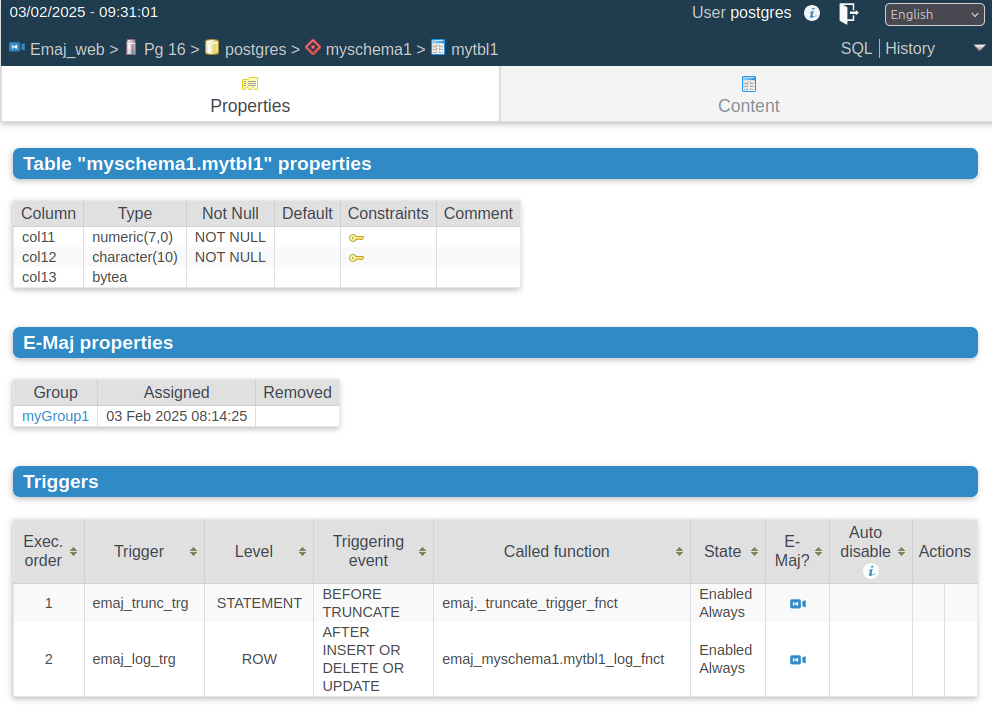
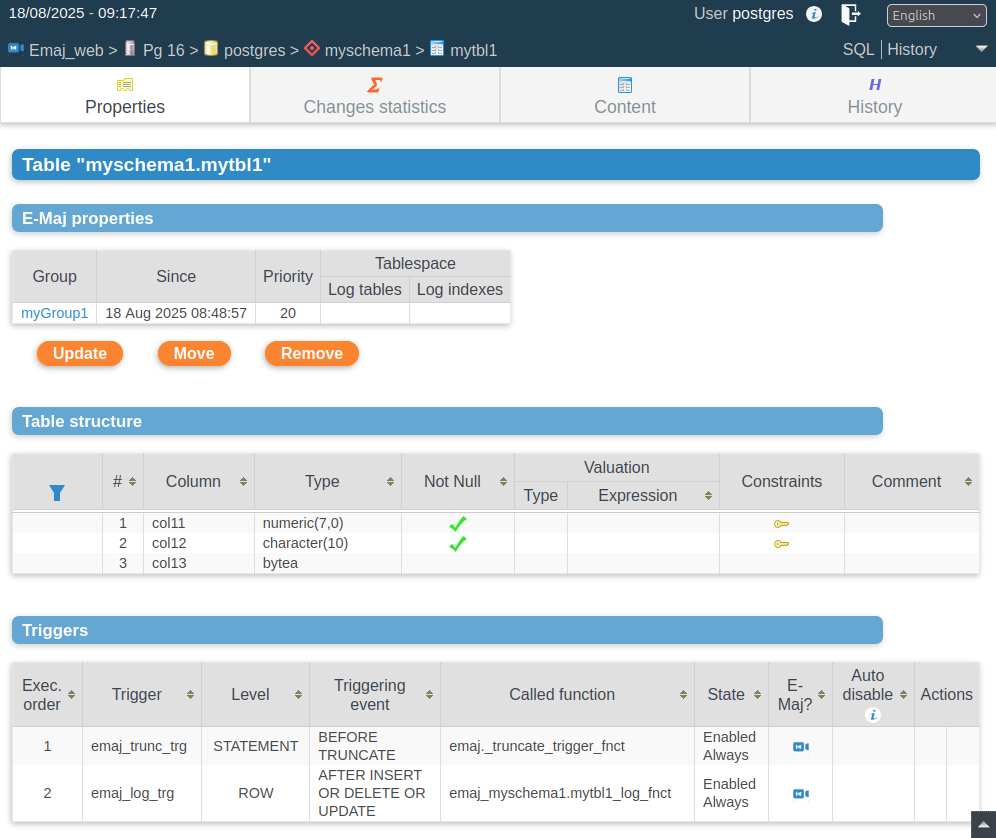
Update the 'Using Emaj_web' documentation chapter, following the recent changes. Update some screenshots. Add explanations about the new table and sequence E-Maj history and change statistics features.

diff --git a/docs/en/webUsage.rst b/docs/en/webUsage.rst
@@ -71,7 +71,7 @@ The page headers contain:
 * a breadcrumb trail,
 * and a button to directly go to the page bottom.
 
-The user can navigate in Emaj_web functions using two icon bars: one for the general purpose functions and the other for the functions concerning a single tables group.
+The user can navigate in Emaj_web functions using four icon bars: one for the general purpose functions, two similar bars for the functions concerning respectively a single tables group or a single table, and the last for the functions concerning a single sequence.
 
 .. figure:: images/emajweb_maintabs.png
    :align: center
@@ -79,11 +79,17 @@ The user can navigate in Emaj_web functions using two icon bars: one for the gen
 
    Figure 3 – Main icons bar.
 
-.. figure:: images/emajweb_groupstabs.png
+.. figure:: images/emajweb_grouptabletabs.png
    :align: center
    :class: screenshot
 
-   Figure 4 – Tables groups icons bar.
+   Figure 4 – Tables groups annd tables icons bar.
+
+.. figure:: images/emajweb_sequencetabs.png
+   :align: center
+   :class: screenshot
+
+   Figure 5 – Sequences icons bar.
 
 For *emaj_viewer* roles, some icons are not visible.
 
@@ -95,7 +101,7 @@ On most tables too, an icon located at the left of the header row, let show or h
    :align: center
    :class: screenshot
 
-   Figure 5 – Filtering the tables groups in *LOGGING* state. Here, only tables groups whose name contains “my” and having more than 2 marks are displayed, sorted in descending order by number of tables.
+   Figure 6 – Filtering the tables groups in *LOGGING* state. Here, only tables groups whose name contains “my” and having more than 2 marks are displayed, sorted in descending order by number of tables.
 
 Some tables allow to perform actions on several objects at once. In this case, the user selects the objects with the checkboxes on the first column of the table and choose the action to perform among the available buttons under the table.
 
@@ -112,7 +118,7 @@ From the tables groups list page, it is possible to get more information about a
    :align: center
    :class: screenshot
 
-   Figure 6 – Details of a tables group
+   Figure 7 – Details of a tables group
 
 A first line repeats information already displayed on the groups list (number of tables and sequences, type, state and number of marks). It also shows the disk space used by its log tables.
 
@@ -149,7 +155,7 @@ The figure below shows an example of detailed statistics for tables.
    :align: center
    :class: screenshot
 
-   Figure 7 – Detailed statistics about updates recorded between two marks
+   Figure 8 – Detailed statistics about updates recorded between two marks
 
 The displayed page contains a first line returning global counters.
 
@@ -159,7 +165,7 @@ On each line of the statistics table, the user can click on a button to easily l
    :align: center
    :class: screenshot
 
-   Figure 8 – Form to generate the SQL statement displaying table changes
+   Figure 9 – Form to generate the SQL statement displaying table changes
 
 Tables group content
 --------------------
@@ -172,7 +178,7 @@ For each table belonging to the group, the displayed sheet shows its E-Maj chara
    :align: center
    :class: screenshot
 
-   Figure 9 – A tables group's content.
+   Figure 10 – A tables group's content.
 
 Tables group history
 --------------------
@@ -183,7 +189,7 @@ The “*History*” tab displays the periods of time when the tables group exist
    :align: center
    :class: screenshot
 
-Figure 10 – A tables group’s history.
+   Figure 11 – A tables group’s history.
 
 Schemas and tables groups configuration
 ---------------------------------------
@@ -198,25 +204,81 @@ For both lists, the E-Maj properties and some general properties of each object 
    :align: center
    :class: screenshot
 
-   Figure 11 – Schema content and tables groups configuration.
+   Figure 12 – Schema content and tables groups configuration.
 
 By clicking on a table or sequence name or on an eye icon, one gets details about the table or sequence characteristics and content.
 
-Regarding tables, the *"Properties"* tab shows the table structure, its E-Maj properties (the history of the group assignments) and its triggers. The *"Content"* tab allows to visualize the table rows.
+Table details
+-------------
+
+By selecting a table from a schema tables list, one reaches a first "*Properties*" tab that shows the current E-Maj properties, the table structure, and its triggers.
+
+E-Maj properties like tables group assignement, move or removal are available through appropriate buttons.
 
 .. figure:: images/emajweb_tableproperties.png
    :align: center
    :class: screenshot
 
-   Figure 12 – Table properties.
+   Figure 13 – Table properties.
 
-Regarding sequences, the unique *"Properties"* tab shows the sequence characteristics and its E-Maj properties.
+Thanks to the specific table tabs bar three other functions are available.
+
+The "*Change statistics*" tab offers statistics about changes registered for the table, on a specified time frame, like statistics about tables groups. However, they differ in several ways:
+
+* a single table is processed,
+* but one gets one statistic row per elementary marks interval,
+* the number of executed E-Maj rollbacks is also reported for each marks interval.
+
+Alike for tables groups, an "eye" icon allows to look at changes details.
+
+.. figure:: images/emajweb_tablestat.png
+   :align: center
+   :class: screenshot
+
+   Figure 14 – Table changes statistics.
+
+The "*Content*" tab allows to visualize the current table rows.
+
+Lastly, the "*History*" tab shows the E-Maj properties evolutions of the table, and in particular its tables groups assignements.
+
+.. figure:: images/emajweb_tablehistory.png
+   :align: center
+   :class: screenshot
+
+   Figure 15 – E-Maj history for a table.
+
+Sequence details
+----------------
+
+Regarding sequences, the "*Properties*" tab shows the E-Maj properties and the characteristics of a single sequence. Some buttons allow to modify the sequence E-Maj properties (tables group assignment, move or removal).
 
 .. figure:: images/emajweb_sequenceproperties.png
    :align: center
    :class: screenshot
 
-   Figure 13 – Sequence properties.
+   Figure 16 – Sequence properties.
+
+Thanks to the sequence specific tabs bar, two other functions are available.
+
+The "*Changes statistics*" tab returns statistics about the sequence state evolution on a specified time frame, with, for each elementary marks interval:
+
+* the numer of sequence increments,
+* a flag indicating whether another sequence property has changed (min value, max value, increment, etc),
+* the number of executed E-Maj rollbacks.
+
+.. figure:: images/emajweb_sequencestat.png
+   :align: center
+   :class: screenshot
+
+   Figure 17 – Sequence statistics.
+
+Lastly, the "*History*" tab shows the sequence E-Maj characterics changes, in particular the assignment into tables groups.
+
+.. figure:: images/emajweb_sequencehistory.png
+   :align: center
+   :class: screenshot
+
+   Figure 18 – Sequence E-Maj history.
 
 Triggers
 --------
@@ -229,7 +291,7 @@ A button allows to switch their de-activation mode at E-Maj rollback time.
    :align: center
    :class: screenshot
 
-   Figure 14 – Application triggers list.
+   Figure 19 – Application triggers list.
 
 Monitoring rollback operations
 ------------------------------
@@ -246,7 +308,7 @@ For each consolidable rollback, a button allows to effectively consolidate the o
    :align: center
    :class: screenshot
 
-   Figure 15 – Rollback operations monitoring.
+   Figure 20 – Rollback operations monitoring.
 
 Clicking on a rollback identifier in one of these tables displays a page that shows information details about the selected in progress or completed operation.
 
@@ -262,7 +324,7 @@ More precisely, are displayed:
    :align: center
    :class: screenshot
 
-   Figure 16 – Details of a Rollback operation.
+   Figure 21 – Details of a Rollback operation.
 
 E-Maj activity
 --------------
@@ -273,7 +335,7 @@ The *"Activity"* tab allows to monitor in real time the activity of E-Maj log tr
    :align: center
    :class: screenshot
 
-   Figure 17 – E-Maj activity.
+   Figure 22 – E-Maj activity.
 
 At the page top, the form alllows to define the monitoring wishes, by default the 5 most active tables groups, the 20 most active tables and the 20 most active sequences. Regular expressions may be set to filter (include or exclude) tables groups, tables and sequences.
 
@@ -316,4 +378,4 @@ Two buttons allow to export and import parameters configurations to or from a lo
    :align: center
    :class: screenshot
 
-   Figure 18 – The E-Maj environment state.
+   Figure 23 – The E-Maj environment state.
